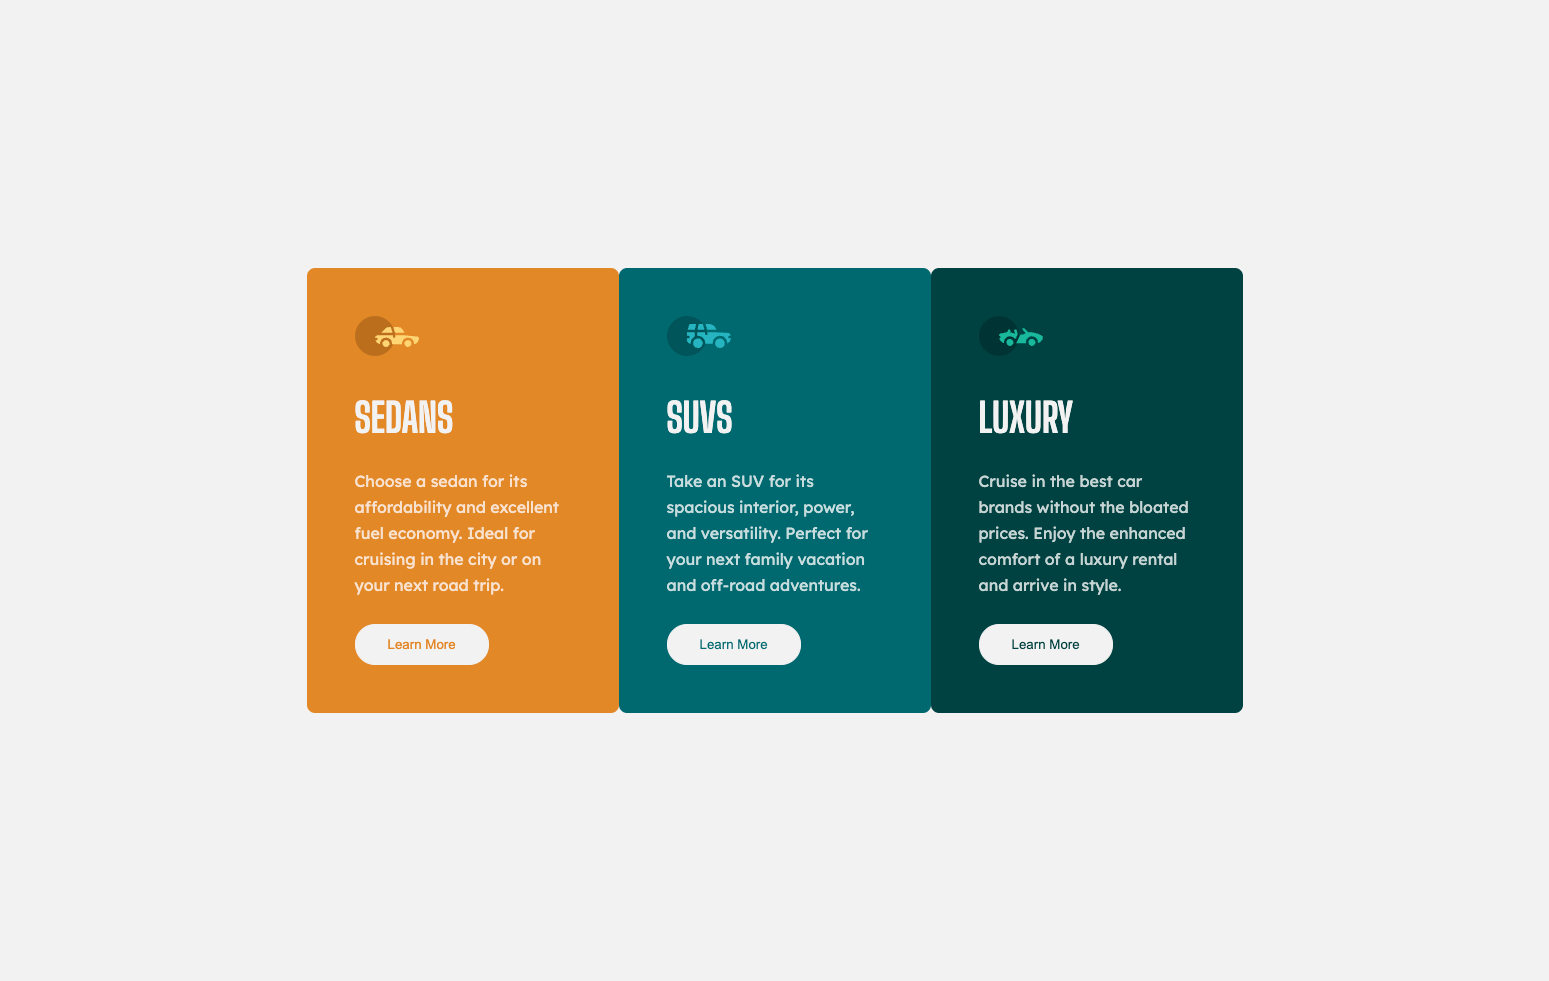
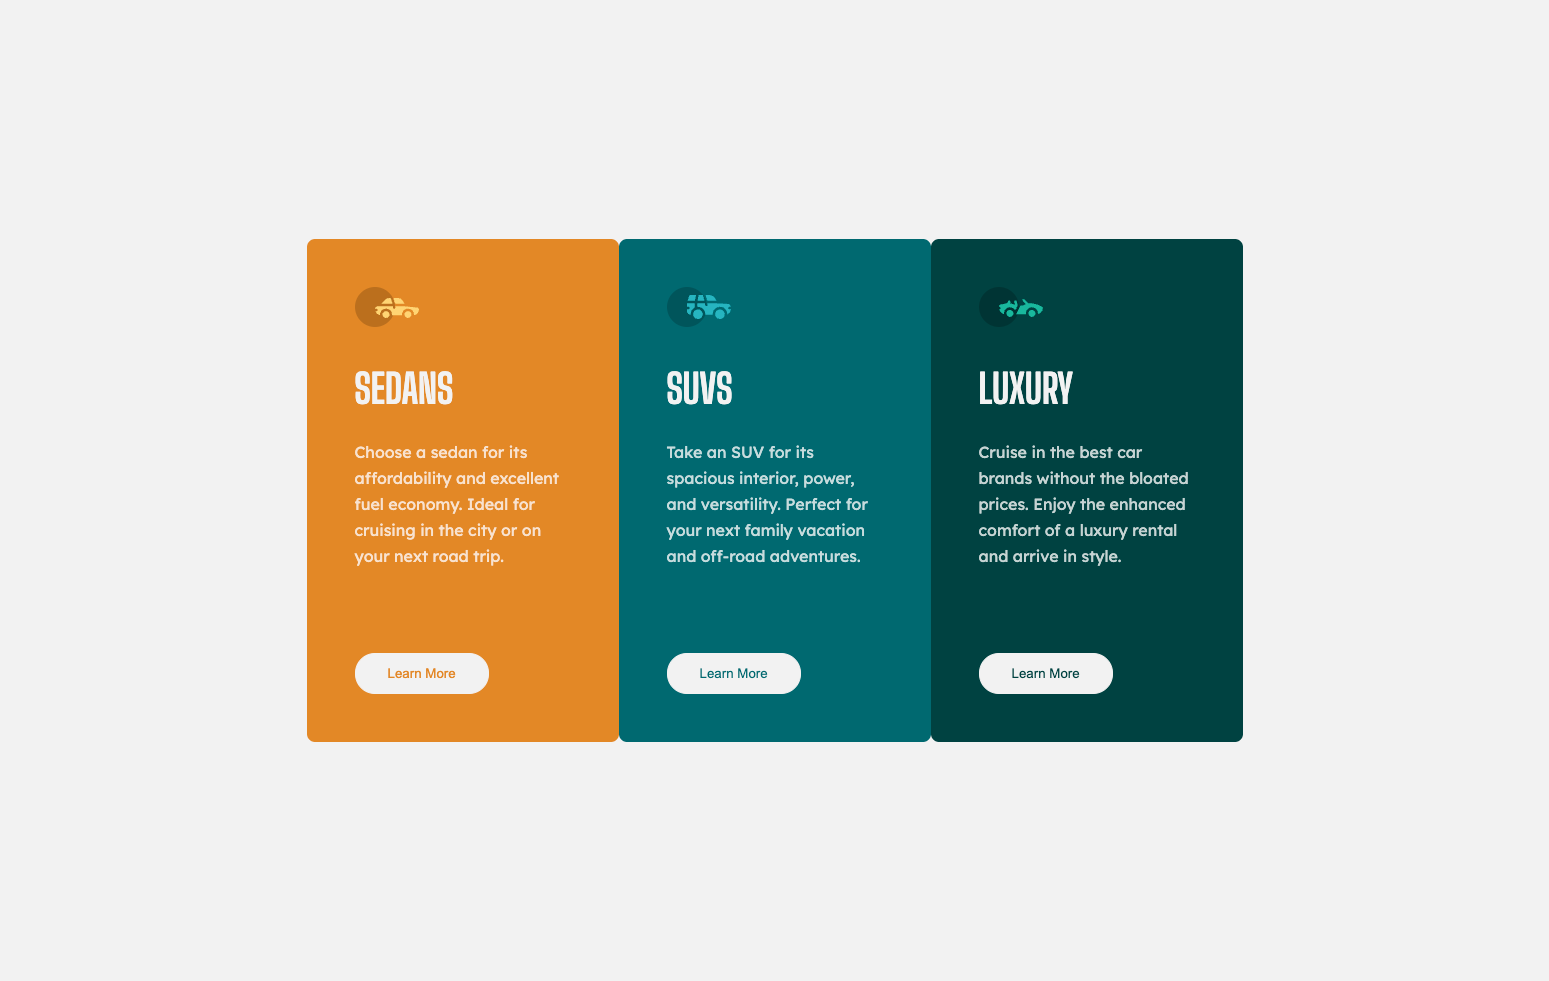
add padding to buttons

Changed region(s): [[0.1859, 0.2446, 0.8057, 0.7645]]

diff --git a/styles.css b/styles.css
@@ -97,6 +97,10 @@ button {
     height: 100vh;
   }
 
+  button {
+    margin-top: 5.25rem;
+  }
+
   .card {
     max-width: 19.5rem;
   }
